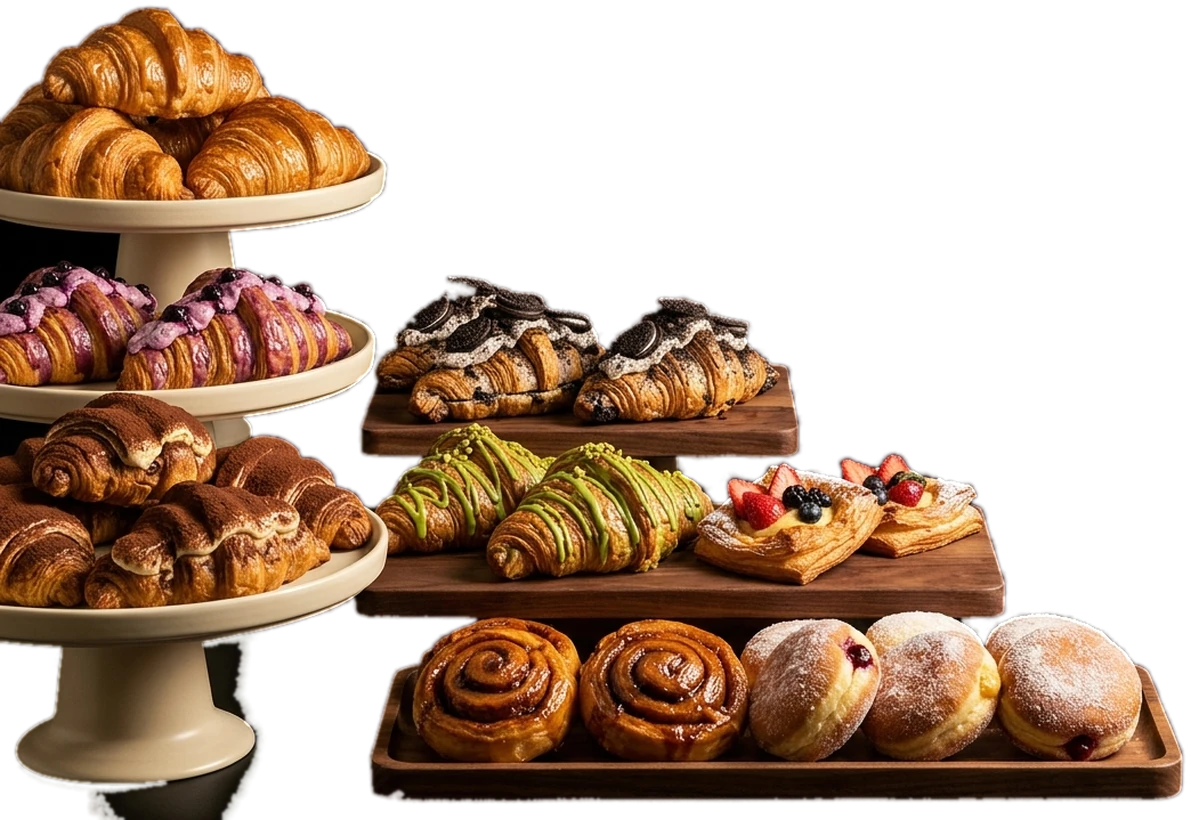
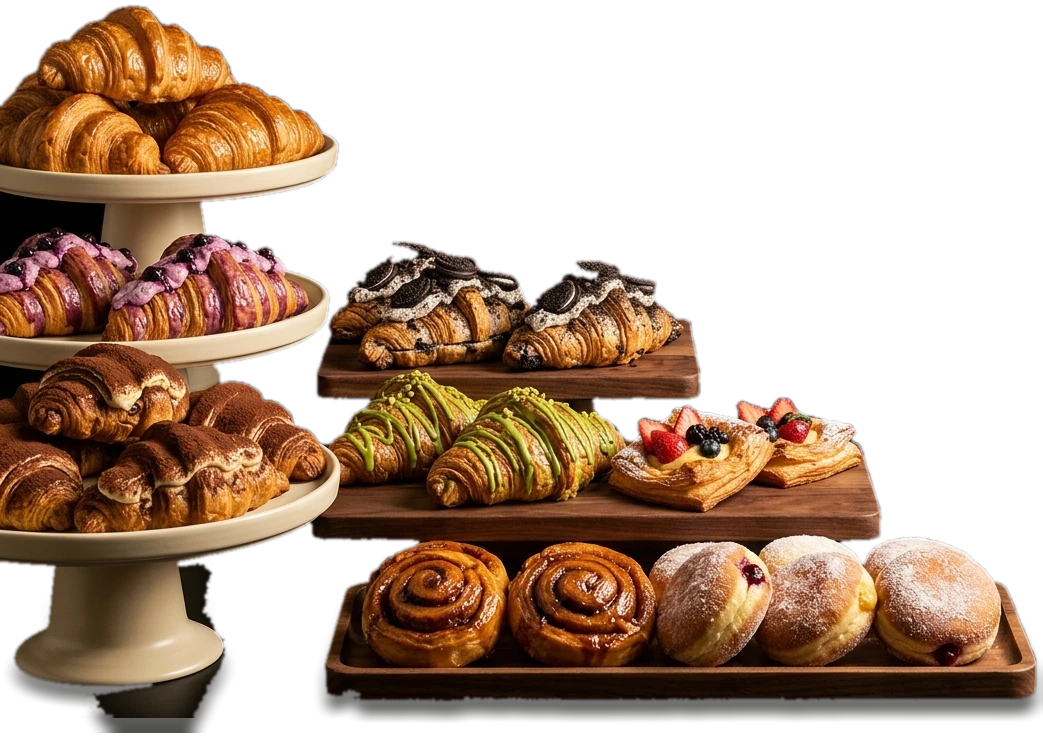
Ground PC & mobile giant croissant on table, eliminate tool overlap, and update right wing croissant flavors

diff --git a/backend/static/index.html b/backend/static/index.html
@@ -239,35 +239,39 @@
       bottom: 0;
       z-index: 14;
       width: 100vw;
-      min-width: 1120px;
-      height: clamp(195px, 27.5svh, 265px);
+      min-width: 1180px;
+      height: clamp(275px, 36.5svh, 355px);
       object-fit: cover;
       object-position: center bottom;
       transform: translate3d(-50%, 0, 0);
       pointer-events: none;
-      opacity: 0.98;
-      filter: brightness(0.90) contrast(1.04);
+      opacity: 0.99;
+      filter: brightness(0.92) contrast(1.04);
       will-change: transform, opacity;
+    }
+
+    .kitchen-table-mobile {
+      display: none;
     }
 
     /* Grounding contact shadow directly beneath the Giant Croissant onto the wooden workbench */
     .croissant-contact-shadow {
       position: absolute;
       left: 50%;
-      bottom: clamp(128px, 18.4svh, 178px);
+      bottom: clamp(96px, 12.8svh, 134px);
       z-index: 21;
-      width: min(56vw, 680px);
-      height: clamp(42px, 6.8svh, 66px);
+      width: min(46vw, 640px);
+      height: clamp(44px, 6.5svh, 66px);
       transform: translate3d(-50%, 0, 0);
       border-radius: 50%;
       background: radial-gradient(
         ellipse at center,
-        rgba(5, 3, 1, 0.92) 0%,
-        rgba(8, 5, 2, 0.68) 46%,
-        rgba(8, 5, 2, 0.22) 74%,
+        rgba(4, 2, 1, 0.95) 0%,
+        rgba(7, 4, 2, 0.76) 48%,
+        rgba(8, 5, 2, 0.28) 76%,
         transparent 100%
       );
-      filter: blur(10px);
+      filter: blur(9px);
       pointer-events: none;
       will-change: transform, opacity;
     }
@@ -277,22 +281,22 @@
       z-index: 17;
       height: auto;
       pointer-events: none;
-      filter: brightness(0.92) contrast(1.03) drop-shadow(0 16px 20px rgba(5, 3, 1, 0.85));
+      filter: brightness(0.93) contrast(1.03) drop-shadow(0 14px 18px rgba(5, 3, 1, 0.82));
       will-change: transform, opacity;
     }
 
-    /* PC Photorealistic V-Wings: anchored on open back walnut wood completely above linen & rolling pin */
+    /* PC Photorealistic V-Wings: flush mojok at outer walls, anchored on open back wood completely above foreground tools */
     .roti-mound.roti-v-left {
-      left: 0;
-      width: min(50vw, 76svh);
-      bottom: clamp(138px, 19svh, 182px);
+      left: -0.4vw;
+      width: min(55vw, 88svh);
+      bottom: clamp(134px, 18.2svh, 178px);
       transform: translate3d(0, 0, 0);
     }
 
     .roti-mound.roti-v-right {
-      right: 0;
-      width: min(48vw, 73svh);
-      bottom: clamp(132px, 18.2svh, 174px);
+      right: -0.4vw;
+      width: min(50vw, 80svh);
+      bottom: clamp(134px, 18.2svh, 178px);
       transform: translate3d(0, 0, 0);
     }
 
@@ -1304,10 +1308,15 @@
       .croissant-contact-shadow {
         width: 88vw;
         height: 46px;
-        bottom: 17.5svh;
+        bottom: 13.8svh;
       }
 
-      .kitchen-table-layer {
+      .kitchen-table-pc {
+        display: none;
+      }
+
+      .kitchen-table-mobile {
+        display: block;
         min-width: 0;
         width: 118vw;
         height: 26svh;
@@ -1496,9 +1505,10 @@
         <!-- Foreground Curtain: Wooden Kitchen Workbench + Photorealistic V-Wings + Giant 3D Croissant -->
         <div class="curtain-3d" id="curtain3d" aria-hidden="true">
           <div class="curtain-bg" id="curtainBg"></div>
-          <img class="kitchen-table-layer" id="kitchenTable" src="/static/assets/intro/kitchen_table.webp?v=2" alt="" width="1600" height="554" decoding="async" />
-          <img class="roti-mound roti-pc-wing roti-v-left" id="rotiLeftFront" src="/static/assets/intro/roti_v_left.webp?v=2" alt="" width="1191" height="820" decoding="async" />
-          <img class="roti-mound roti-pc-wing roti-v-right" id="rotiRightFront" src="/static/assets/intro/roti_v_right.webp?v=2" alt="" width="1112" height="780" decoding="async" />
+          <img class="kitchen-table-layer kitchen-table-pc" id="kitchenTablePc" src="/static/assets/intro/kitchen_table_pc.webp?v=6" alt="" width="1600" height="540" decoding="async" />
+          <img class="kitchen-table-layer kitchen-table-mobile" id="kitchenTableMobile" src="/static/assets/intro/kitchen_table.webp?v=2" alt="" width="1600" height="554" decoding="async" />
+          <img class="roti-mound roti-pc-wing roti-v-left" id="rotiLeftFront" src="/static/assets/intro/roti_v_left.webp?v=7" alt="" width="1048" height="718" decoding="async" />
+          <img class="roti-mound roti-pc-wing roti-v-right" id="rotiRightFront" src="/static/assets/intro/roti_v_right.webp?v=7" alt="" width="883" height="658" decoding="async" />
           <img class="roti-mound roti-mobile-wing roti-mobile-left" id="rotiLeftMobile" src="/static/assets/intro/roti_mobile_left.webp?v=2" alt="" width="559" height="1080" decoding="async" />
           <img class="roti-mound roti-mobile-wing roti-mobile-right" id="rotiRightMobile" src="/static/assets/intro/roti_mobile_right.webp?v=2" alt="" width="652" height="1020" decoding="async" />
           <div class="croissant-contact-shadow" id="croissantShadow"></div>
@@ -1771,7 +1781,8 @@
     const heroSticky = document.getElementById("heroSticky");
     const curtain3d = document.getElementById("curtain3d");
     const curtainBg = document.getElementById("curtainBg");
-    const kitchenTable = document.getElementById("kitchenTable");
+    const kitchenTablePc = document.getElementById("kitchenTablePc");
+    const kitchenTableMobile = document.getElementById("kitchenTableMobile");
     const croissantShadow = document.getElementById("croissantShadow");
     const heroCanvas = document.getElementById("croissantCanvas");
     const rotiLeftFront = document.getElementById("rotiLeftFront");
@@ -1941,13 +1952,13 @@
 
         const aspect = w / Math.max(1, h);
         const vFovRad = (camera.fov * Math.PI) / 180;
-        const desiredWorldWidth = aspect < 0.85 ? 4.10 : 5.30;
+        const desiredWorldWidth = aspect < 0.85 ? 4.10 : 7.05;
         const distForWidth = desiredWorldWidth / (2 * Math.tan(vFovRad * 0.5) * Math.max(0.42, aspect));
-        const camZ = Math.max(6.45, distForWidth);
+        const camZ = Math.max(8.25, distForWidth);
         camera.position.set(0, 0.04, camZ);
         const halfWorldH = camZ * Math.tan(vFovRad * 0.5);
-        // PC: rest above foreground rolling pin/whisk; Mobile: rest down in Yellow Dome directly on walnut table
-        const pivotY = aspect < 0.85 ? -halfWorldH * 0.39 : -0.04;
+        // PC & Mobile: plant Giant Croissant directly down onto the walnut wooden tabletop (not floating!)
+        const pivotY = aspect < 0.85 ? -halfWorldH * 0.49 : -halfWorldH * 0.31;
         pivot.position.set(0, pivotY, 0);
         measureTitleEndpoints();
       }
@@ -2065,10 +2076,11 @@
         const sideAlpha = Math.max(0, 1 - sideExitT * 1.15);
         const isMobileView = window.innerWidth <= 768;
 
-        if (kitchenTable) {
-          const tableDrop = sideEase * (isMobileView ? 150 : 210);
-          kitchenTable.style.transform = `translate3d(-50%, ${tableDrop.toFixed(1)}px, 0)`;
-          kitchenTable.style.opacity = (sideAlpha * 0.96).toFixed(3);
+        const activeTable = isMobileView ? kitchenTableMobile : kitchenTablePc;
+        if (activeTable) {
+          const tableDrop = sideEase * (isMobileView ? 150 : 220);
+          activeTable.style.transform = `translate3d(-50%, ${tableDrop.toFixed(1)}px, 0)`;
+          activeTable.style.opacity = (sideAlpha * 0.99).toFixed(3);
         }
 
         if (croissantShadow) {
